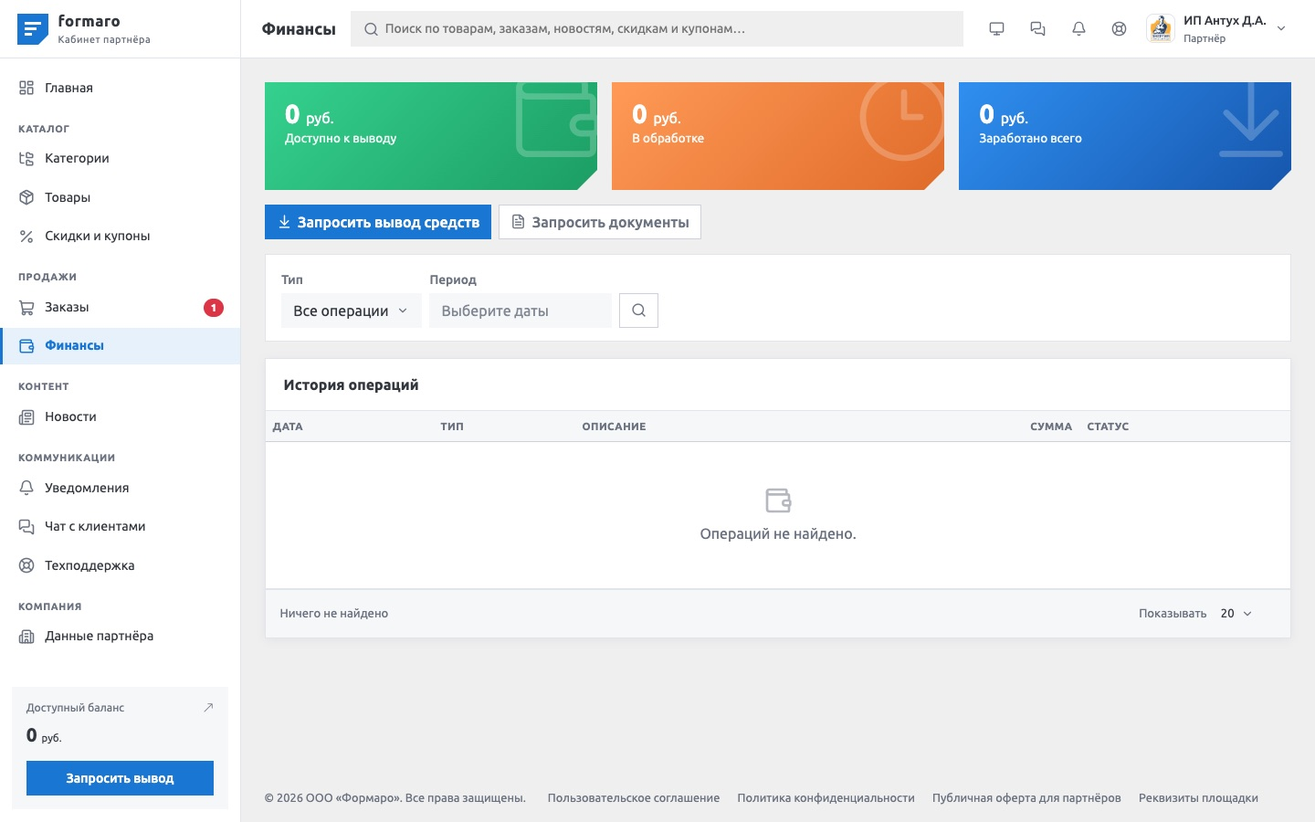
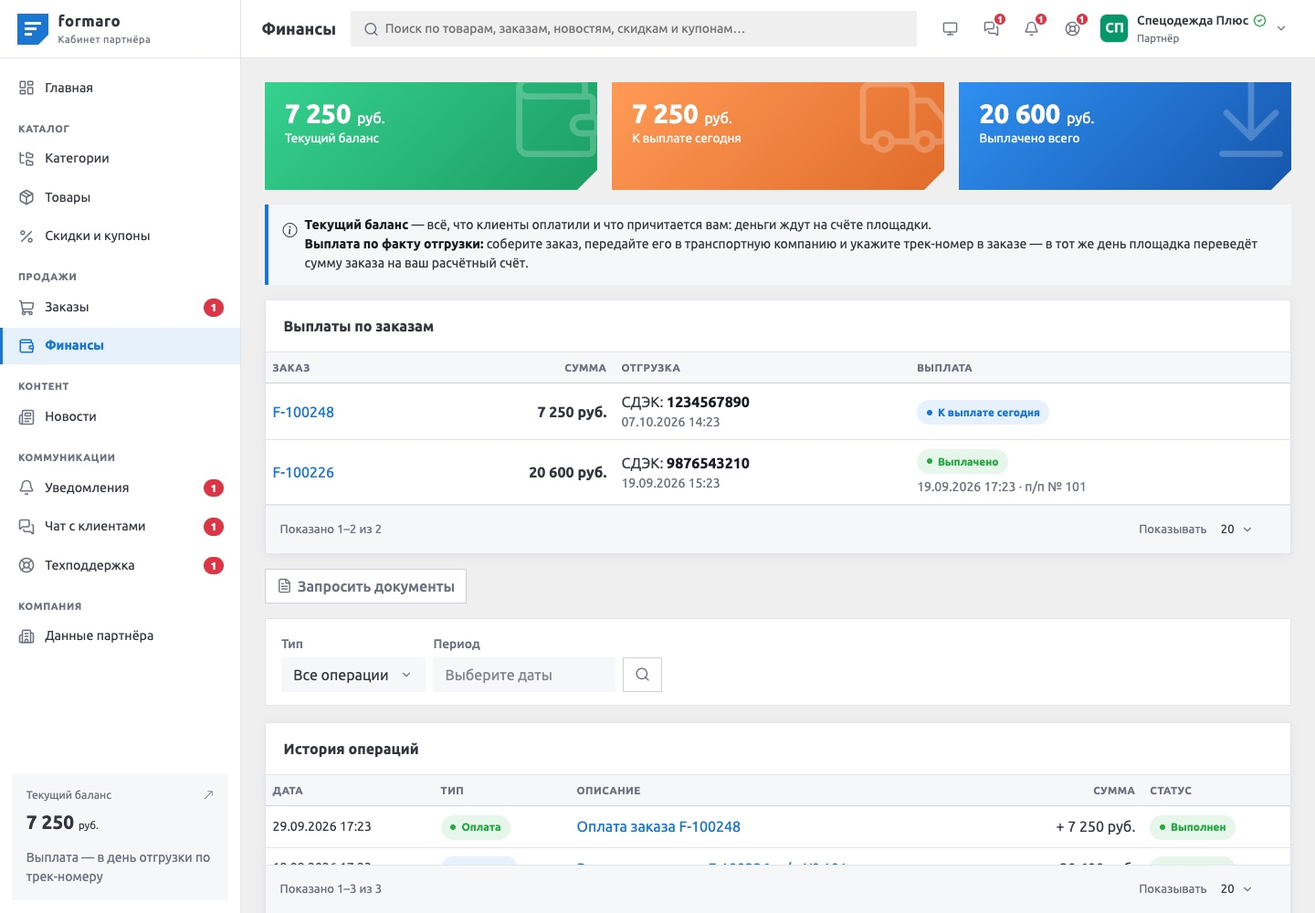
Гайд: выплаты по трек-номеру, наценка площадки и минимальный заказ
Главы гайда приведены к ТЗ «Финансы» (этапы 2–4), миграция
Version20261008110001 обновляет тексты 9 глав в инфоблоке:
- «Финансы» партнёра — выплата в день отгрузки по трек-номеру вместо
  заявок на вывод: плитки, «Выплаты по заказам», типы операций; возврат
  после выплаты баланс не меняет, возвраты по вине поставщика — за его счёт.
- Заказ у партнёра — карточка «Отгрузка и выплата», цены поставщика.
- Каталог партнёра — цена товара это цена поставщика, на сайте с наценкой.
- Меню и уведомления партнёра — без «Запросить вывод».
- Админка: главная и меню (к выплате сегодня), заказ (цена поставщика,
  комиссия, выплата), «Финансы» — вкладка «Выплаты», наценка и
  минимальный заказ; уведомления; задачи владельца.
- Корзина — предупреждение о минимальном заказе, доставку покупатель
  оплачивает транспортной компании при получении.

Скриншоты пересняты: c-finance, c-order, a-finance, a-order, a-dashboard.

Демо-данные (seed.php): у позиций заказов цена покупателя с наценкой и
supplier_price — видна комиссия площадки; у заказов в работе поставщик
подтвердил наличие и выставлен счёт, в истории — соответствующие записи.

Админка: красный счётчик «ждёт решения» у активного пункта меню был
не виден (фон сливался) — теперь остаётся красным.

diff --git a/local/php_interface/migrations/data/guide/174-admin-operations.html b/local/php_interface/migrations/data/guide/174-admin-operations.html
@@ -1,4 +1,4 @@
-<p class="lead">Продажи и общение в кабинете администратора: заказы всех партнёров и подтверждение оплаты, заявки на вывод средств, техподдержка партнёров, просмотр чатов покупателей с продавцами, уведомления.</p>
+<p class="lead">Продажи и общение в кабинете администратора: заказы всех партнёров, подтверждение оплаты и выплаты поставщикам, наценка площадки, техподдержка партнёров, просмотр чатов покупателей с продавцами, уведомления.</p>
 
 <h2>Заказы</h2>
 <p>Заказы всех партнёров. Фильтры: поиск по номеру, клиенту, телефону; партнёр; статус заказа; счёт; статус оплаты. Колонка «Счёт»: «Ждём поставщика» (наличие не подтверждено), «Выставить» (поставщик подтвердил — можно выставлять), «до …» (счёт действует), «Аннулирован». Внизу — сумма найденных заказов без отменённых. Чтобы найти заказы, по которым нужно проверить поступление денег, выберите «Оплата → Ожидает оплаты».</p>
@@ -19,20 +19,32 @@
 <ol>
 <li>Проверьте поступление денег по счёту.</li>
 <li>В блоке «Статус и оплата» выберите статус оплаты: «Оплачен», «Возврат» или «Ожидает оплаты» (снять отметку) — и нажмите «Сохранить статус оплаты».</li>
-<li>В историю заказа добавится запись («Оплата подтверждена площадкой»), покупатель и партнёр получат уведомления. Партнёру — «Заказ оплачен, можно собирать и отправлять».</li>
+<li>В историю заказа добавится запись («Оплата подтверждена площадкой»), покупатель и партнёр получат уведомления. Сумма заказа по ценам поставщика зачисляется на текущий баланс партнёра, ему — «соберите заказ и укажите трек-номер».</li>
+<li>Возврат или снятие оплаты до выплаты списывает сумму с баланса партнёра. После выплаты баланс не меняется — возврат денег от поставщика решается вне сайта.</li>
 </ol>
 <p>В историю можно добавить «Комментарий площадки», например номер платёжного поручения. Партнёр его тоже видит.</p>
+<p>В таблице товаров — цена поставщика и цена на сайте, внизу — «Поставщику / комиссия площадки». До выставления счёта менеджер правит цену поставщика, цена покупателя пересчитывается с наценкой. Карточка «Отгрузка и выплата» показывает трек-номер и кнопку «Выплачено».</p>
 <figure class="guide-shot"><a href="/guide/img/a-order.jpg" data-fancybox="guide" data-caption="Страница заказа: согласование, счёт и оплата"><img src="/guide/img/a-order.jpg" alt="Страница заказа: согласование, счёт и оплата" loading="lazy"></a><figcaption>Страница заказа: согласование, счёт и оплата</figcaption></figure>
 
 <h2>Финансы</h2>
-<p>Сверху — сколько заявок ждут выплаты и на какую сумму, сколько доступно партнёрам к выводу и сколько уже выплачено. Фильтр по партнёру — для всех вкладок, фильтр вкладки появляется рядом, когда он нужен.</p>
-<figure class="guide-shot"><a href="/guide/img/a-finance.jpg" data-fancybox="guide" data-caption="Финансы: заявки на вывод"><img src="/guide/img/a-finance.jpg" alt="Финансы: заявки на вывод" loading="lazy"></a><figcaption>Финансы: заявки на вывод</figcaption></figure>
+<p>Сверху — сколько заказов к выплате сегодня и на какую сумму, сколько оплачено, но ещё не отгружено, текущий баланс поставщиков и сколько выплачено. Фильтр по партнёру — для всех вкладок, фильтр вкладки появляется рядом, когда он нужен.</p>
+<figure class="guide-shot"><a href="/guide/img/a-finance.jpg" data-fancybox="guide" data-caption="Финансы: выплаты поставщикам"><img src="/guide/img/a-finance.jpg" alt="Финансы: выплаты поставщикам" loading="lazy"></a><figcaption>Финансы: выплаты поставщикам</figcaption></figure>
+<h3>Выплаты</h3>
+<ol>
+<li>Подтверждённая оплата заказа зачисляет сумму поставщика (без наценки) на его текущий баланс.</li>
+<li>Поставщик передал заказ в транспортную компанию и указал трек-номер — заказ появляется в фильтре «К выплате сегодня», приходит уведомление со ссылкой.</li>
+<li>Переведите сумму по реквизитам из строки (они же — в карточке партнёра) и нажмите «Выплачено». Комментарий необязателен — например, номер платёжного поручения. Партнёр получает уведомление.</li>
+</ol>
+<p>Фильтр «Выплата»: к выплате сегодня, ждут трек-номер, выплачено, все оплаченные заказы. То же — на странице заказа, в карточке «Отгрузка и выплата».</p>
 <ul>
-<li><b>Заявки на вывод</b> — заявки партнёров. «Выплачено» — после перевода денег партнёру (можно указать комментарий, например номер платёжки). «Отклонить» — с причиной, сумма возвращается в доступный баланс партнёра. Партнёр получает уведомление в обоих случаях. Реквизиты для перевода — в карточке партнёра.</li>
-<li><b>Операции</b> — все поступления, списания, возвраты и выводы с фильтром по типу.</li>
-<li><b>Балансы партнёров</b> — заработано, комиссия и возвраты, выплачено, в заявках, доступно.</li>
+<li><b>Операции</b> — оплаты заказов, возвраты и выплаты с фильтром по типу.</li>
+<li><b>Балансы партнёров</b> — оплачено клиентами, возвраты, выплачено, к выплате сегодня, текущий баланс.</li>
 </ul>
-<div class="text-page__note">Начислений за заказы автоматически нет: поступления и комиссию по-прежнему вносят в админке Битрикса (справочник «Финансовые операции (кабинет)»). Отметка оплаты заказа финансы партнёра не меняет.</div>
+<h3>Наценка и минимальный заказ</h3>
+<ul>
+<li><b>Наценка на цену поставщика</b> — одна на все товары, не меньше 7%. Цена на сайте = цена поставщика + наценка, округлённая вверх до рубля. После сохранения цены всех товаров на сайте пересчитываются. Поставщик видит только свою цену. Его скидки и промокоды считаются от его цены — комиссия площадки от них не меняется.</li>
+<li><b>Минимальный заказ у поставщика</b> (по умолчанию 10 000 ₽) — если сумма товаров одного поставщика в корзине меньше, покупатель видит предупреждение. Оформить заказ всё равно можно.</li>
+</ul>
 
 <h2>Техподдержка</h2>
 <p>Обращения всех партнёров. Сверху — «Ждут ответа» (партнёр написал последним), дальше по дате последнего сообщения. Фильтры: тема, партнёр, статус.</p>
@@ -60,7 +72,7 @@
 <p>Только то, что требует решения площадки:</p>
 <ul>
 <li><b>Модерация</b> — новый партнёр зарегистрировался, партнёр отправил данные на проверку, партнёр создал или исправил категорию;</li>
-<li><b>Финансы</b> — заявка на вывод средств;</li>
+<li><b>Финансы</b> — поставщик указал трек-номер, заказ к выплате сегодня;</li>
 <li><b>Техподдержка</b> — новое обращение или ответ партнёра;</li>
 <li><b>Чаты с клиентами</b> — подозрительное сообщение.</li>
 </ul>

diff --git a/local/php_interface/migrations/data/guide/172-admin-start.html b/local/php_interface/migrations/data/guide/172-admin-start.html
@@ -1,4 +1,4 @@
-<p class="lead">Кабинет администратора (<a href="/admin/">/admin/</a>) — рабочее место владельца площадки. Здесь видно всё, что происходит у всех партнёров, и делается «вторая сторона» их работы: проверка партнёров и категорий, подтверждение оплаты, вывод средств, ответы в техподдержке. Устроен так же, как кабинет партнёра, но отмечен зелёным цветом, чтобы их не путать.</p>
+<p class="lead">Кабинет администратора (<a href="/admin/">/admin/</a>) — рабочее место владельца площадки. Здесь видно всё, что происходит у всех партнёров, и делается «вторая сторона» их работы: проверка партнёров и категорий, подтверждение оплаты, выплаты поставщикам, ответы в техподдержке. Устроен так же, как кабинет партнёра, но отмечен зелёным цветом, чтобы их не путать.</p>
 
 <h2>Вход и доступ</h2>
 <p>Кабинет открыт только пользователям с ролью «Администратор». Если вы уже вошли на сайт под администратором, входить заново не нужно. Остальных кабинет отправляет на страницу входа <a href="/admin/login/">/admin/login/</a>, а пользователю без роли администратора отказывает.</p>
@@ -6,14 +6,14 @@
 
 <h2>Как устроен кабинет</h2>
 <table class="text-page__props">
-<tr><th>Меню слева</th><td>Главная, Модерация; «Площадка» — Партнёры, Категории, Новости; «Продажи» — Заказы, Финансы; «Коммуникации» — Уведомления, Техподдержка, Чаты с клиентами. Цифры у пунктов — сколько ждёт решения: модерация, заявки на вывод, непрочитанные уведомления, обращения без ответа.</td></tr>
+<tr><th>Меню слева</th><td>Главная, Модерация; «Площадка» — Партнёры, Категории, Новости; «Продажи» — Заказы, Финансы; «Коммуникации» — Уведомления, Техподдержка, Чаты с клиентами. Цифры у пунктов — сколько ждёт решения: модерация, заказы к выплате сегодня, непрочитанные уведомления, обращения без ответа.</td></tr>
 <tr><th>Верхняя панель</th><td>Поиск по партнёрам, категориям, заказам, новостям и обращениям; тема оформления; значки модерации, уведомлений и техподдержки со счётчиками; меню пользователя: «На сайт», «Админка Битрикса», «Выйти».</td></tr>
 <tr><th>Фильтр по партнёру</th><td>Есть во всех разделах. Это выпадающий список с поиском: начните вводить название, стрелки и Enter — выбрать. Плашка партнёра в таблицах ведёт в его карточку.</td></tr>
 </table>
 <figure class="guide-shot"><a href="/guide/img/a-partner-select.jpg" data-fancybox="guide" data-caption="Фильтр по партнёру: список с поиском"><img src="/guide/img/a-partner-select.jpg" alt="Фильтр по партнёру: список с поиском" loading="lazy"></a><figcaption>Фильтр по партнёру: список с поиском</figcaption></figure>
 
 <h2>Главная</h2>
-<p>Сверху — то, что ждёт решения: на модерации, заявок на вывод, открытых обращений, активных партнёров (плитки кликабельны). Ниже — та же статистика, что у партнёра: заказы, сумма, новые заказы, средний чек, топ товаров за период и последние заказы. По умолчанию — по всей площадке, фильтр справа сужает до одного партнёра.</p>
+<p>Сверху — то, что ждёт решения: на модерации, к выплате сегодня, открытых обращений, активных партнёров (плитки кликабельны). Ниже — та же статистика, что у партнёра: заказы, сумма, новые заказы, средний чек, топ товаров за период и последние заказы. По умолчанию — по всей площадке, фильтр справа сужает до одного партнёра.</p>
 <figure class="guide-shot"><a href="/guide/img/a-dashboard.jpg" data-fancybox="guide" data-caption="Главная кабинета администратора"><img src="/guide/img/a-dashboard.jpg" alt="Главная кабинета администратора" loading="lazy"></a><figcaption>Главная кабинета администратора</figcaption></figure>
 
 <h2>Модерация</h2>

diff --git a/local/php_interface/migrations/data/guide/150-cabinet-finance.html b/local/php_interface/migrations/data/guide/150-cabinet-finance.html
@@ -1,11 +1,17 @@
 <h2>Финансы</h2>
 <figure class="guide-shot"><a href="/guide/img/c-finance.jpg" data-fancybox="guide" data-caption="Финансы партнёра"><img src="/guide/img/c-finance.jpg" alt="Финансы партнёра" loading="lazy"></a><figcaption>Финансы партнёра</figcaption></figure>
+<p>Площадка платит поставщику по каждому заказу в день отгрузки. Заявки на вывод подавать не нужно.</p>
+<ol>
+<li>Покупатель оплатил счёт, площадка подтвердила оплату — сумма заказа по ценам поставщика зачисляется на <b>«Текущий баланс»</b>. Приходит уведомление.</li>
+<li>Поставщик собирает заказ, передаёт его в транспортную компанию и на странице заказа в карточке «Отгрузка и выплата» указывает транспортную компанию и трек-номер. Заказ получает статус «Отправлен» и встаёт в очередь «К выплате сегодня», площадке приходит уведомление. Ошибку в трек-номере можно исправить до выплаты.</li>
+<li>Площадка переводит деньги на расчётный счёт из «Данных партнёра» и отмечает выплату — приходит уведомление «Выплачено N руб. по заказу …».</li>
+</ol>
 <ul>
-<li><b>Доступно к выводу</b>, <b>В обработке</b>, <b>Заработано всего</b>. Баланс считается из операций: поступления минус комиссия, возвраты и выводы.</li>
-<li><b>История операций</b> с фильтром по типу (поступление, списание, возврат, вывод) и периоду.</li>
-<li><b>Запросить вывод средств</b> — заявка на сумму не больше доступной. Заявка появляется в истории со статусом «В обработке». Площадка переводит деньги и отмечает заявку выплаченной или отклоняет её с причиной (сумма возвращается в доступный баланс). Партнёр получает уведомление.</li>
+<li><b>Плитки</b>: «Текущий баланс» — оплачено покупателями и ещё не выплачено; «К выплате сегодня» — заказы с трек-номером, деньги по ним придут сегодня; «Выплачено всего».</li>
+<li><b>Выплаты по заказам</b> — каждый оплаченный заказ и его состояние: «Ждём трек-номер» (ссылка ведёт сразу к вводу трек-номера), «К выплате сегодня», «Выплачено» с датой и комментарием площадки (например, номер платёжного поручения).</li>
+<li><b>История операций</b> с фильтром по типу (оплата заказа, возврат, выплата) и периоду.</li>
 </ul>
-<div class="text-page__note">Операции (поступления за заказы, комиссию, выплаты) пока вносит площадка — автоматического начисления за выполненные заказы ещё нет. «Запросить документы» пока не работает.</div>
+<div class="text-page__note">Если оплату заказа сняли или вернули покупателю до выплаты, сумма списывается с баланса и заказ уходит из очереди на выплату. Если выплата уже проведена, баланс не меняется — вопрос решается с площадкой вне сайта. Возвраты по вине поставщика (брак, пересорт, недовложение) — за счёт поставщика. «Запросить документы» пока не работает.</div>
 
 <h2>Данные партнёра</h2>
 <figure class="guide-shot"><a href="/guide/img/c-profile.jpg" data-fancybox="guide" data-caption="Данные партнёра: статус проверки и вкладки"><img src="/guide/img/c-profile.jpg" alt="Данные партнёра: статус проверки и вкладки" loading="lazy"></a><figcaption>Данные партнёра: статус проверки и вкладки</figcaption></figure>

diff --git a/local/php_interface/migrations/data/guide/180-owner-tasks.html b/local/php_interface/migrations/data/guide/180-owner-tasks.html
@@ -7,8 +7,8 @@
 <tr><th>Категории партнёров</th><td>Новые и исправленные категории партнёров — в «Модерации». «Допустить» или «Отклонить» с причиной.</td></tr>
 <tr><th>Счета на оплату</th><td>Поставщик подтвердил наличие — приходит уведомление. Согласуйте изменения с покупателем, если они есть, и на странице заказа нажмите «Выставить счёт». Заказы, по которым пора выставлять счёт, — фильтр «Счёт» в списке заказов.</td></tr>
 <tr><th>Оплата заказов</th><td>Покупатель оплатил счёт и сообщил об оплате — уведомление приходит вам и продавцу. Проверьте поступление денег и на странице заказа поставьте статус оплаты «Оплачен». Удобно искать через фильтр «Оплата → Ожидает оплаты».</td></tr>
-<tr><th>Вывод средств</th><td>Заявки партнёров — в «Финансах». Переведите деньги по реквизитам из карточки партнёра и нажмите «Выплачено» или отклоните заявку с причиной.</td></tr>
-<tr><th>Финансы партнёров</th><td>Поступления за заказы и комиссию пока вносят в админке Битрикса (справочник «Финансовые операции (кабинет)»).</td></tr>
+<tr><th>Выплаты поставщикам</th><td>Поставщик указал трек-номер — приходит уведомление «К выплате сегодня». В «Финансах» на вкладке «Выплаты» переведите сумму по реквизитам партнёра и нажмите «Выплачено» (можно указать номер платёжки).</td></tr>
+<tr><th>Наценка и минимальный заказ</th><td>«Финансы» → «Наценка площадки и минимальный заказ». Наценка — не меньше 7%, при смене пересчитываются цены всех товаров на сайте.</td></tr>
 <tr><th>Техподдержка</th><td>Отвечайте на обращения партнёров в «Техподдержке» — сверху те, что ждут ответа.</td></tr>
 <tr><th>Чаты</th><td>Проверяйте уведомления о подозрительных сообщениях: обмен контактами, разговоры об оплате и сделке в обход площадки.</td></tr>
 <tr><th>Контент</th><td>Новости — в кабинете администратора; общие категории каталога — там же. Страницы разделов, вопросы и ответы, отзывы, вакансии — в админке Битрикса.</td></tr>

diff --git a/local/php_interface/migrations/data/guide/130-cabinet-orders.html b/local/php_interface/migrations/data/guide/130-cabinet-orders.html
@@ -4,11 +4,12 @@
 <h2>Карточка заказа</h2>
 <figure class="guide-shot"><a href="/guide/img/c-order.jpg" data-fancybox="guide" data-caption="Карточка заказа в кабинете партнёра"><img src="/guide/img/c-order.jpg" alt="Карточка заказа в кабинете партнёра" loading="lazy"></a><figcaption>Карточка заказа в кабинете партнёра</figcaption></figure>
 <ul>
-<li><b>Товары</b> — количество, удаление, добавление товара поиском по названию или артикулу.</li>
+<li><b>Товары</b> — количество, удаление, добавление товара поиском по названию или артикулу. Цены и суммы в заказе — ваши, без наценки площадки.</li>
 <li><b>Скидка или купон на заказ</b> — выбор скидки или ввод промокода.</li>
 <li><b>Данные покупателя</b>. Бейдж «Покупатель сайта» означает, что заказ привязан к аккаунту покупателя и тот видит его в своём кабинете.</li>
 <li><b>Согласование и счёт</b> — продавец указывает срок отгрузки и нажимает «Подтвердить наличие». Новый заказ переходит в «В обработке», площадка получает уведомление и выставляет покупателю счёт. Здесь же видно, выставлен ли счёт, до какого числа он действует, аннулирован ли он и оплачен ли заказ. Пока счёт действует, состав, цены и данные заказа менять нельзя — только статус и историю.</li>
 <li><b>Статус и оплата</b> — статус заказа, доставка, способ оплаты. Статус оплаты меняет только площадка: оплату по счёту подтверждает маркетплейс. Когда площадка отмечает заказ оплаченным (или оформляет возврат), продавец получает уведомление, а в истории заказа появляется запись.</li>
+<li><b>Отгрузка и выплата</b> — после оплаты: транспортная компания и трек-номер, «Сохранить трек-номер». Заказ становится «Отправлен», покупатель получает трек-номер в уведомлении и истории заказа, площадка выплачивает сумму заказа в тот же день. После выплаты трек-номер не меняется. Подробнее — в главе про финансы.</li>
 <li><b>История заказа</b> — все события, комментарии менеджера и комментарии площадки.</li>
 </ul>
 

diff --git a/local/php_interface/migrations/data/guide/050-cart.html b/local/php_interface/migrations/data/guide/050-cart.html
@@ -7,13 +7,14 @@
 <li>Флажки на товарах отмечают, что оформлять сейчас. Неотмеченные товары останутся в корзине до следующего раза.</li>
 <li>У группы продавца есть кнопки «выбрать все», «снять выбор» и «удалить выбранные».</li>
 <li>Количество меняется прямо в карточке, цены пересчитываются с учётом скидок «от N штук» и «от суммы».</li>
+<li>Если товаров одного продавца меньше чем на минимальную сумму заказа (10 000 ₽), в его группе появится предупреждение, сколько ещё добавить. Оформить заказ всё равно можно.</li>
 <li><b>Промокод</b> — купон продавца из его кабинета. Он даёт скидку на товары этого продавца. Можно ввести несколько промокодов, но не больше одного на каждого продавца.</li>
 </ul>
 
 <h2>Оформление</h2>
 <figure class="guide-shot"><a href="/guide/img/cart-checkout.jpg" data-fancybox="guide" data-caption="Способ доставки, данные покупателя и способ оплаты"><img src="/guide/img/cart-checkout.jpg" alt="Способ доставки, данные покупателя и способ оплаты" loading="lazy"></a><figcaption>Способ доставки, данные покупателя и способ оплаты</figcaption></figure>
 <ol>
-<li><b>Способ доставки</b> — только транспортные компании: СДЭК, Деловые линии, ПЭК или другая. Стоимость доставки сообщает продавец после оформления.</li>
+<li><b>Способ доставки</b> — только транспортные компании: СДЭК, Деловые линии, ПЭК или другая. Доставку покупатель оплачивает транспортной компании при получении — в счёт она не входит.</li>
 <li><b>Данные покупателя</b> — имя или компания, телефон, e-mail, адрес доставки, комментарий. Поля заполняются автоматически из прошлого заказа или профиля.</li>
 <li><b>Способ оплаты</b> — пока только «По счёту».</li>
 <li><b>«Оформить заказ»</b>. Гостю сначала предложат войти или зарегистрироваться, корзина при этом сохранится.</li>

diff --git a/local/php_interface/migrations/data/guide/160-cabinet-communication.html b/local/php_interface/migrations/data/guide/160-cabinet-communication.html
@@ -14,5 +14,5 @@
 <figure class="guide-shot"><a href="/guide/img/c-support.jpg" data-fancybox="guide" data-caption="Обращения в техподдержку"><img src="/guide/img/c-support.jpg" alt="Обращения в техподдержку" loading="lazy"></a><figcaption>Обращения в техподдержку</figcaption></figure>
 
 <h2>Уведомления</h2>
-<p>События кабинета: новые заказы с витрины, отмена заказа покупателем, сообщение об оплате, непрочитанные сообщения чата, решения площадки — оплата заказа, проверка данных компании и категорий, вывод средств, ответы техподдержки. Есть фильтр по типу, «только непрочитанные», отметка прочитанным и удаление.</p>
+<p>События кабинета: новые заказы с витрины, отмена заказа покупателем, сообщение об оплате, непрочитанные сообщения чата, решения площадки — оплата заказа и зачисление на баланс, выплата по заказу, проверка данных компании и категорий, ответы техподдержки. Есть фильтр по типу, «только непрочитанные», отметка прочитанным и удаление.</p>
 <figure class="guide-shot"><a href="/guide/img/c-notifications.jpg" data-fancybox="guide" data-caption="Уведомления партнёра"><img src="/guide/img/c-notifications.jpg" alt="Уведомления партнёра" loading="lazy"></a><figcaption>Уведомления партнёра</figcaption></figure>

diff --git a/local/php_interface/migrations/data/guide/110-cabinet-start.html b/local/php_interface/migrations/data/guide/110-cabinet-start.html
@@ -19,7 +19,7 @@
 <tr><th>Контент</th><td>Новости</td></tr>
 <tr><th>Коммуникации</th><td>Уведомления, Чат с клиентами, Техподдержка</td></tr>
 <tr><th>Компания</th><td>Данные партнёра</td></tr>
-<tr><th>Внизу меню</th><td>Доступный баланс и «Запросить вывод»</td></tr>
+<tr><th>Внизу меню</th><td>Текущий баланс — выплата приходит в день отгрузки по трек-номеру</td></tr>
 <tr><th>Верхняя панель</th><td>Поиск по товарам, заказам, новостям, скидкам и купонам; переключение светлой и тёмной темы; сообщения, уведомления, техподдержка; меню партнёра (профиль, финансы, выход).</td></tr>
 </table>
 <p>Счётчики в меню и на панели обновляются сами, без перезагрузки страницы.</p>

diff --git a/local/php_interface/migrations/data/guide/120-cabinet-catalog.html b/local/php_interface/migrations/data/guide/120-cabinet-catalog.html
@@ -22,7 +22,7 @@
   <li>название и код для ссылки;</li>
   <li>статус «Активен» или «Скрыт»;</li>
   <li>категории (можно несколько);</li>
-  <li>цена и остаток;</li>
+  <li>цена и остаток. Цена — ваша (цена поставщика). На сайте покупатель видит её с наценкой площадки, округлённую вверх до рубля; выплата считается по вашей цене;</li>
   <li>«Предзаказ» — товар можно заказать при нулевом остатке;</li>
   <li>метки «Новинка», «Топ продаж», «Распродажа» или своя;</li>
   <li>краткое и подробное описание;</li>

diff --git a/local/components/formaro/cabinet.admin/templates/.default/assets/css/admin.css b/local/components/formaro/cabinet.admin/templates/.default/assets/css/admin.css
@@ -13,7 +13,8 @@
     --brand-dark: #34d399;
     --brand-soft: #13302a;
 }
-.side-link.active .side-count { background: var(--brand-soft); }
+/* Красный счётчик «ждёт решения» (.attention) остаётся красным и у активного пункта. */
+.side-link.active .side-count:not(.attention) { background: var(--brand-soft); }
 
 .partner-link { color: inherit; text-decoration: none; border-bottom: 1px dashed currentColor; }
 .partner-link:hover { color: var(--brand); }

diff --git a/local/tools/demo-data/seed.php b/local/tools/demo-data/seed.php
@@ -203,20 +203,25 @@ $out('Новости: 2');
 $orderRepo = new R\OrderRepository();
 $ordersClass = R\HlblockEntityFactory::getDataClass('CabinetOrders');
 $customer = ['name' => 'Тестовый Тест Тестович', 'phone' => '+7 900 000-00-01', 'email' => $DEMO['buyer_email'], 'address' => 'г. Москва, ул. Тестовая, д. 5, склад 2'];
-$item = static fn(array $p, int $qty) => ['product_id' => $p['id'], 'name' => $p['name'], 'sku' => $p['sku'], 'color' => $p['color'], 'size' => $p['size'], 'qty' => $qty, 'price' => $p['price']];
+// price — цена покупателя (с наценкой площадки), supplier_price — цена поставщика.
+$item = static fn(array $p, int $qty) => ['product_id' => $p['id'], 'name' => $p['name'], 'sku' => $p['sku'], 'color' => $p['color'], 'size' => $p['size'], 'qty' => $qty,
+    'price' => \Formaro\Cabinet\Service\MarkupService::retail((float)$p['price']), 'supplier_price' => (float)$p['price']];
 $orderDefs = [
     // [items, status, payment, days ago, history [[days, hours, text, author]], comment]
     [[$item($products['winter'], 2), $item($products['gloves-winter'], 10)], 'completed', 'paid', 21, [
-        [21, 0, 'Заказ оформлен на сайте', 'Покупатель'], [20, 5, 'Статус изменён на «Подтверждён»', 'Менеджер'],
+        [21, 0, 'Заказ оформлен на сайте', 'Покупатель'], [20, 6, 'Поставщик подтвердил наличие товара. Срок отгрузки: 2 рабочих дня', 'Менеджер'],
+        [20, 5, 'Статус изменён на «Подтверждён»', 'Менеджер'], [20, 4, 'Площадка выставила счёт на оплату', 'Площадка'],
         [19, 2, 'Оплата подтверждена площадкой', 'Площадка'], [18, 0, 'Статус изменён на «Отправлен». Заказ передан в транспортную компанию: СДЭК, трек-номер 9876543210', 'Менеджер'],
         [14, 0, 'Статус изменён на «Выполнен»', 'Менеджер'],
     ], 'Доставка до склада, разгрузка нашими силами'],
     [[$item($products['rain'], 5)], 'shipped', 'paid', 9, [
-        [9, 0, 'Заказ оформлен на сайте', 'Покупатель'], [8, 3, 'Статус изменён на «Подтверждён»', 'Менеджер'],
+        [9, 0, 'Заказ оформлен на сайте', 'Покупатель'], [8, 5, 'Поставщик подтвердил наличие товара. Срок отгрузки: 3 рабочих дня', 'Менеджер'],
+        [8, 4, 'Статус изменён на «Подтверждён»', 'Менеджер'], [8, 3, 'Площадка выставила счёт на оплату', 'Площадка'],
         [8, 1, 'Оплата подтверждена площадкой', 'Площадка'], [0, 3, 'Статус изменён на «Отправлен». Заказ передан в транспортную компанию: СДЭК, трек-номер 1234567890', 'Менеджер'],
     ], ''],
     [[$item($products['mask'], 1), $item($products['gloves-chem'], 20)], 'processing', 'awaiting', 3, [
-        [3, 0, 'Заказ оформлен на сайте', 'Покупатель'], [2, 4, 'Статус изменён на «В обработке»', 'Менеджер'],
+        [3, 0, 'Заказ оформлен на сайте', 'Покупатель'], [2, 4, 'Поставщик подтвердил наличие товара. Срок отгрузки: 1 рабочий день', 'Менеджер'],
+        [2, 2, 'Площадка выставила счёт на оплату', 'Площадка'],
         [1, 2, 'Покупатель сообщил об оплате', 'Покупатель'],
     ], 'Нужны закрывающие документы'],
     [[$item($products['polo'], 6), $item($products['blouse'], 4)], 'new', 'awaiting', 0, [
@@ -235,7 +240,17 @@ foreach ($orderDefs as [$items, $status, $payment, $days, $history, $comment]) {
         'customer_comment' => $comment, 'user_id' => $buyerId,
         'history' => array_map(static fn($h) => ['date' => $agoIso($h[0], $h[1]), 'text' => $h[2], 'author' => $h[3]], $history),
     ]);
-    $ordersClass::update($o['id'], ['UF_CREATED_AT' => $ago($days, 3)]);
+    $fields = ['UF_CREATED_AT' => $ago($days, 3)];
+    // Подтверждён поставщиком и счёт выставлен (OrderInvoiceFlowService) — все, кроме нового и отменённого.
+    if (!in_array($status, ['new', 'cancelled'], true)) {
+        $confirmed = $days === 3 ? 2 : $days - 1;
+        $fields += [
+            'UF_SUPPLIER_CONFIRMED_AT' => $ago($confirmed, 5), 'UF_SUPPLIER_LEAD_TIME' => '2 рабочих дня',
+            'UF_INVOICE_STATUS' => 'issued', 'UF_INVOICE_DATE' => $ago($confirmed, 3),
+            'UF_INVOICE_DUE' => \Formaro\Cabinet\Service\OrderInvoiceFlowService::dueDate(time() - $confirmed * 86400),
+        ];
+    }
+    $ordersClass::update($o['id'], $fields);
     $orders[] = $orderRepo->get($o['id']);
 }
 $out('Заказы: ' . implode(', ', array_column($orders, 'order_number')));

diff --git a/local/php_interface/migrations/Version20261008110001.php b/local/php_interface/migrations/Version20261008110001.php
@@ -1,0 +1,38 @@
+<?php
+
+namespace Sprint\Migration;
+
+use Sprint\Migration\Exceptions\HelperException;
+
+class Version20261008110001 extends Version
+{
+    protected $description = 'Гайд по сайту: выплаты по трек-номеру, наценка площадки и минимальный заказ (ТЗ «Финансы», этапы 2–4)';
+
+    private const UPDATED = ['cart', 'cabinet-start', 'cabinet-catalog', 'cabinet-orders', 'cabinet-finance', 'cabinet-communication', 'admin-start', 'admin-operations', 'owner-tasks'];
+
+    /** Тексты глав UPDATED — из data/guide (как Version20261004120001). @throws HelperException */
+    public function up()
+    {
+        $helper = $this->getHelperManager();
+        $iblockId = $helper->Iblock()->getIblockIdIfExists('content_pages', 'content');
+        $dir = __DIR__ . '/data/guide/';
+        $updated = 0;
+        foreach (json_decode((string)file_get_contents($dir . 'chapters.json'), true) as $chapter) {
+            if (!in_array($chapter['code'], self::UPDATED, true)) {
+                continue;
+            }
+            $id = (int)$helper->Iblock()->getElementId($iblockId, $chapter['code']);
+            if ($id) {
+                (new \CIBlockElement())->Update($id, ['DETAIL_TEXT' => (string)file_get_contents($dir . $chapter['file']), 'DETAIL_TEXT_TYPE' => 'html']);
+                $updated++;
+            }
+        }
+        \CIBlock::clearIblockTagCache($iblockId);
+        $this->outSuccess('Гайд: обновлено глав %d', $updated);
+    }
+
+    public function down()
+    {
+        $this->outInfo('Откат текстов глав не выполняется');
+    }
+}
